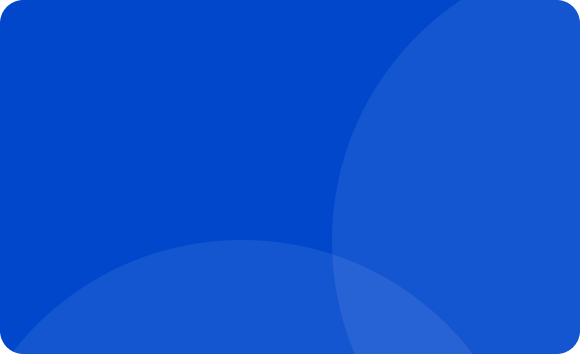
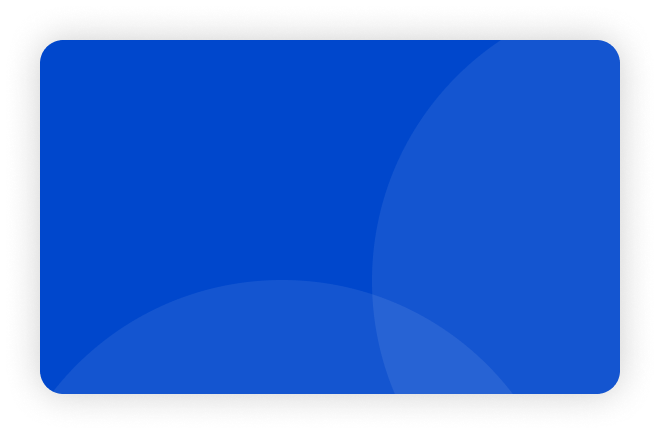
added drop shardow to card image

Changed region(s): [[0.0, 0.0, 1.0, 1.0], [0.5586, 0.6836, 0.5897, 0.7147]]

diff --git a/src/screens/Wallet/walletCard/styles.tsx b/src/screens/Wallet/walletCard/styles.tsx
@@ -2,12 +2,12 @@ import { StyleSheet, Dimensions } from 'react-native';
 
 const styles: any = StyleSheet.create({
     cardBackground: {
-        width: Dimensions.get('window').width * .9,
-        height: Dimensions.get('window').width * .9 * .61,
+        width: Dimensions.get('window').width * 1.1,
+        height: Dimensions.get('window').width * 1.1 * .61,
         alignSelf: 'center'
     },
     accountWrapper: {
-        width: '80%',
+        width: '70%',
         height: '100%',
         alignSelf: 'center',
         justifyContent: 'flex-end'
@@ -15,7 +15,7 @@ const styles: any = StyleSheet.create({
     bottomRow: {
         flexDirection: 'row',
         justifyContent: 'space-between',
-        paddingBottom: 20,
+        paddingBottom: 40,
         paddingTop: 15
     },
     cardNum: {

diff --git a/src/screens/Wallet/walletHeader/styles.tsx b/src/screens/Wallet/walletHeader/styles.tsx
@@ -4,7 +4,7 @@ const styles: any = StyleSheet.create({
     headerWrapper: {
         width: '90%',
         paddingTop: 70,
-        paddingBottom: 30
+        paddingBottom: 10
     },
     headerTitle: {
         color: '#042C5C',
